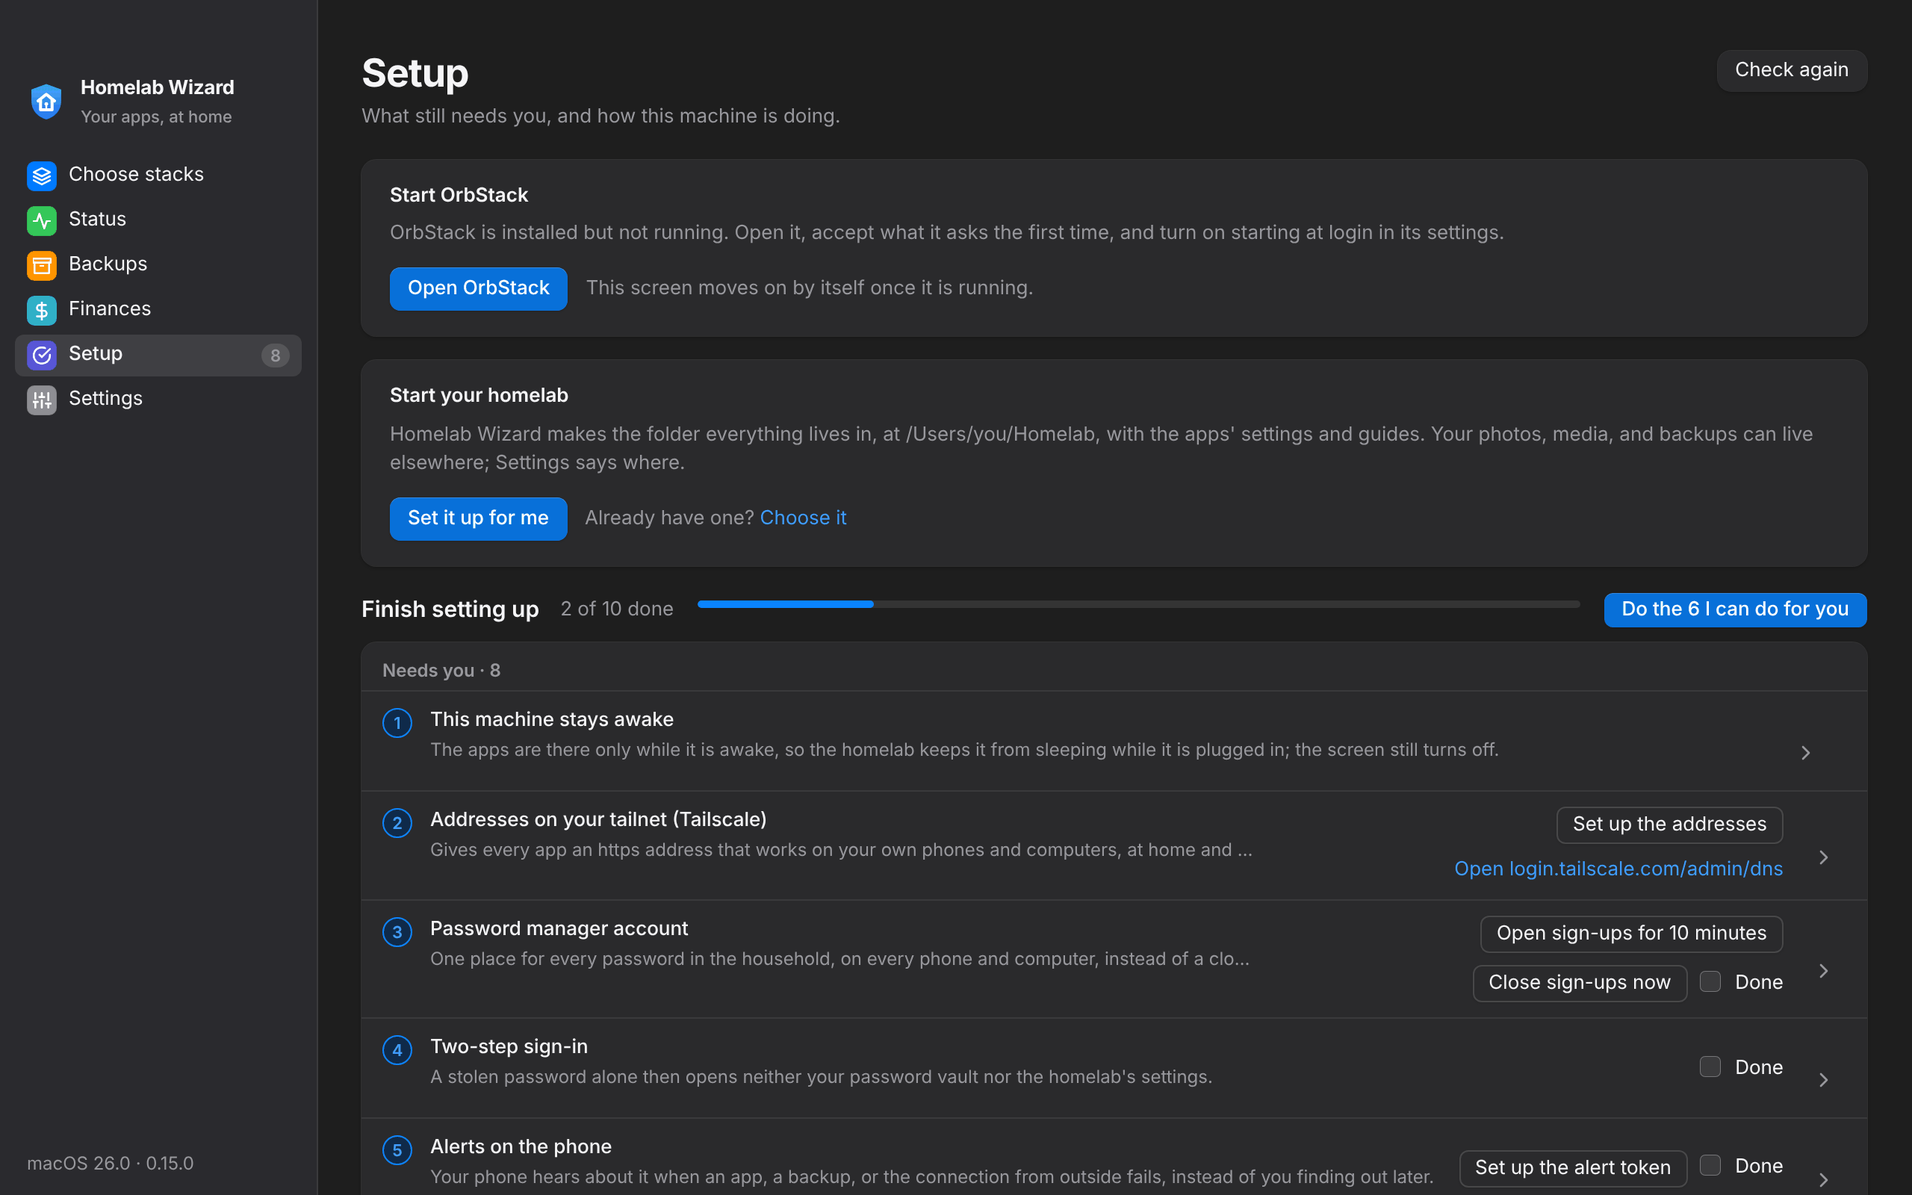
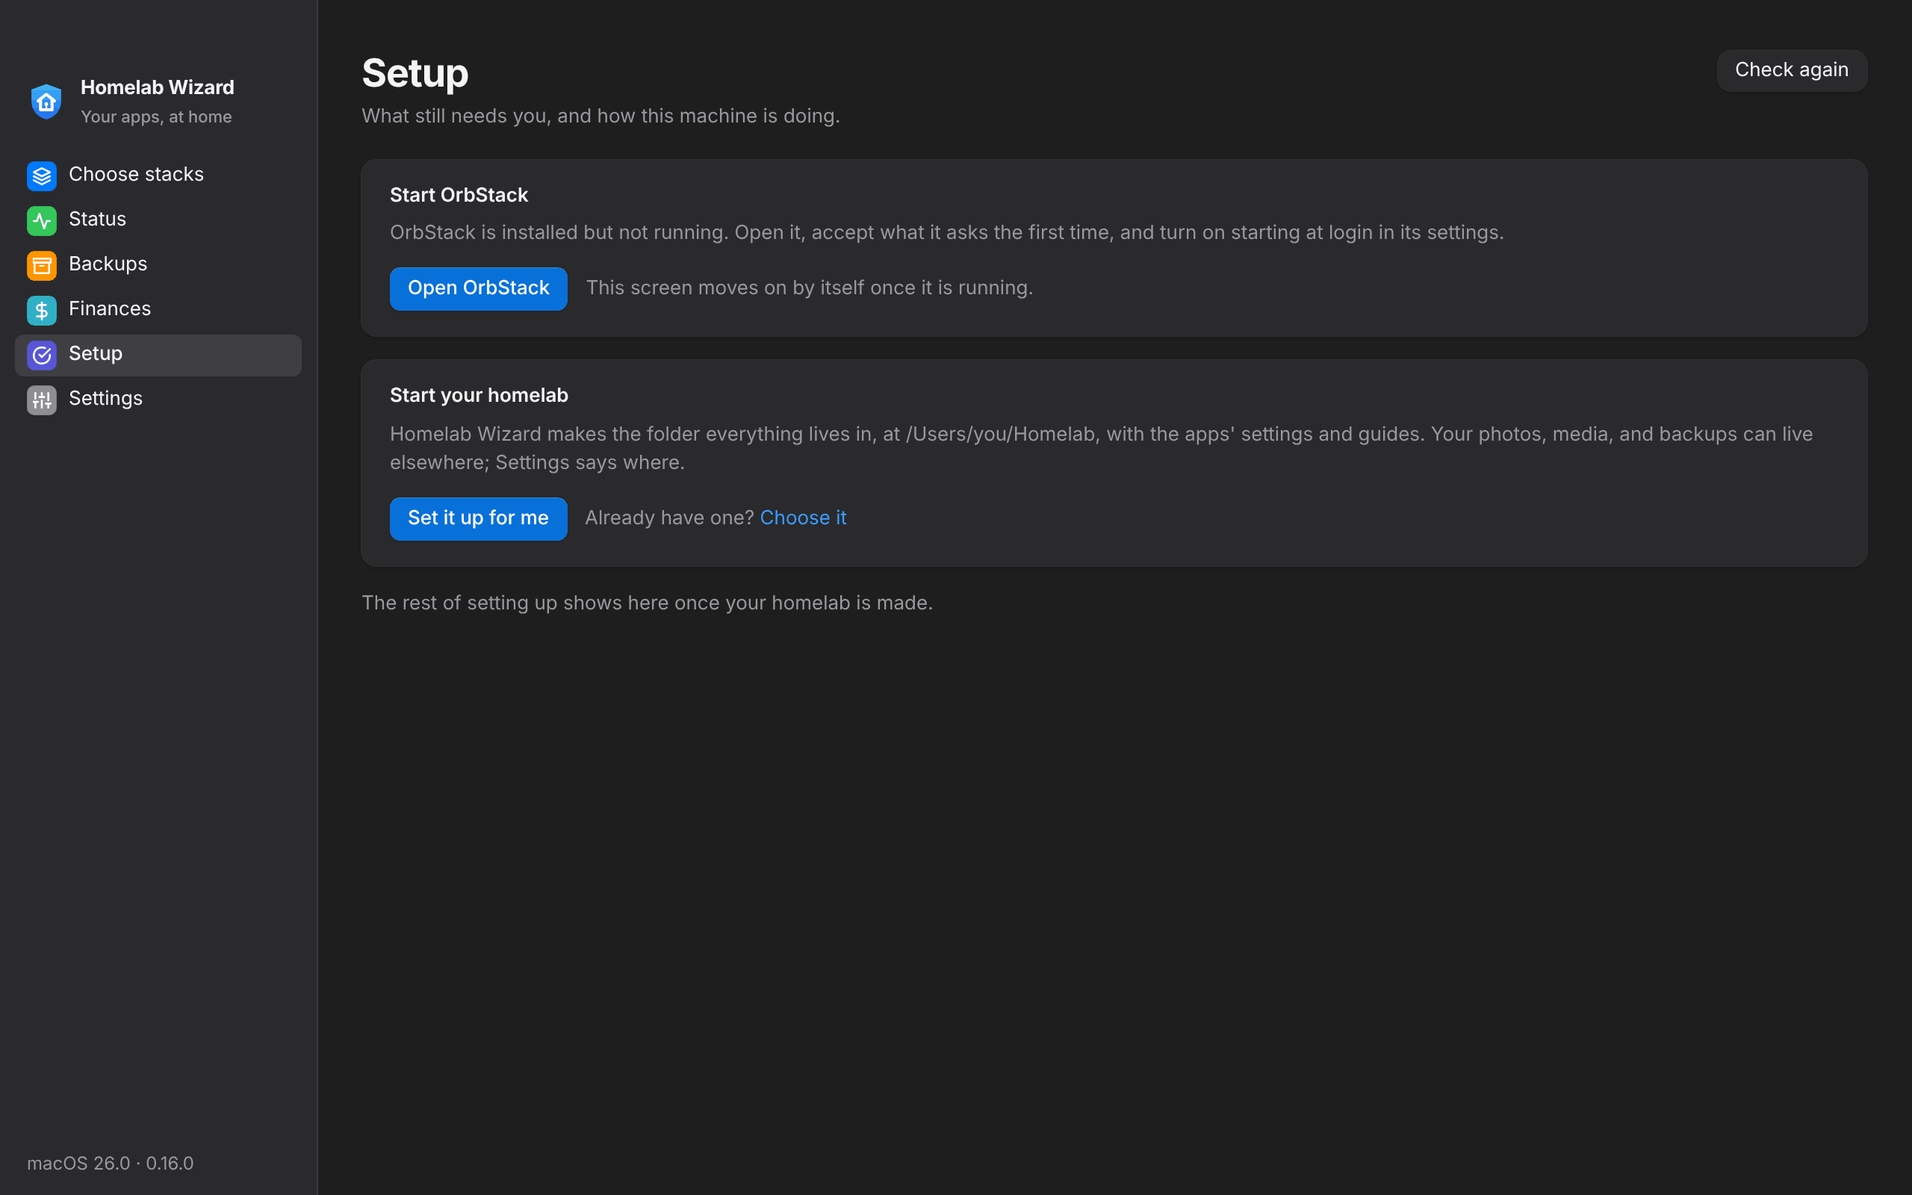
Audit, batch 1: the first run one step at a time, and no secret left in a report or a phone's log (#341)
Security and UX audit rounds (.claude/prompts/audit-loop.md), each proved by a check that failed first: with no homelab folder yet, Setup shows only what comes first; reports and phones' logs take out every secret .env.example names, by name or by placeholder (Homebox's pepper, Ghostfolio's salt were left in); a forged https header gives a copied phone token nothing more, now tested; two flaky Finances smoke cases wait for the screen before typing. docs/Security.md starts the November 2026 threat review.

Claude-Session: https://claude.ai/code/session_01K9KWL9jjBFMppvd8aiJjsp

diff --git a/web/src/screens/setup.ts b/web/src/screens/setup.ts
@@ -97,6 +97,7 @@ function drawHost() {
   renderAppearance(); // its notes depend on the system, known from here
   host = { i, atLogin, menu, upgrade: host?.upgrade || null, on: hostActions };
   renderHost();
+  if (lastSteps.length) renderSetup(lastSteps); // the checklist waits for the homelab's folder
   $('thisMacTitle').textContent = thisMachine;
   drawFoot({ system: i.osVersion || i.os, version: i.version });
   if (i.rootOK && !onPhone()) loadUpgrade(false); // the phone has no Settings › This Mac
@@ -227,13 +228,19 @@ let runningStep: string | null = null;
 
 function renderSetup(steps: setup.Step[]) {
   lastSteps = steps;
+  // Before the homelab's folder is made its steps are read from a .env that
+  // is not there, and none can run yet: the folder comes first.
+  const noHomelab = hostData.value ? !hostData.value.i.rootOK : false;
+  $('checkWait').hidden = !noHomelab;
+  $('checkHead').hidden = noHomelab;
+  $('checklist').hidden = noHomelab;
   const { done, total, left, wait } = progress(steps);
   const all = !left && !wait;
   $('checkTitle').textContent = all ? 'Everything is set up' : 'Finish setting up';
   $('checkCount').textContent = all ? '' : `${done} of ${total} done`;
   $('setupMeter').parentElement!.hidden = all;
   $('setupMeter').style.width = total ? `${Math.round((100 * done) / total)}%` : '0';
-  setupBadge(left);
+  setupBadge(noHomelab ? 0 : left);
   const ready = runnable(steps);
   $('runAll').hidden = runningAll || ready.length < 2;
   if (!runningAll) $('runAll').textContent = `Do the ${ready.length} I can do for you`;

diff --git a/web/dist/app.js b/web/dist/app.js
@@ -3165,6 +3165,7 @@
     renderAppearance();
     host = { i: i3, atLogin, menu, upgrade: host?.upgrade || null, on: hostActions };
     renderHost();
+    if (lastSteps.length) renderSetup(lastSteps);
     $2("thisMacTitle").textContent = thisMachine;
     drawFoot({ system: i3.osVersion || i3.os, version: i3.version });
     if (i3.rootOK && !onPhone()) loadUpgrade(false);
@@ -3346,13 +3347,17 @@
   var runningStep = null;
   function renderSetup(steps) {
     lastSteps = steps;
+    const noHomelab = hostData.value ? !hostData.value.i.rootOK : false;
+    $2("checkWait").hidden = !noHomelab;
+    $2("checkHead").hidden = noHomelab;
+    $2("checklist").hidden = noHomelab;
     const { done, total, left, wait } = progress(steps);
     const all = !left && !wait;
     $2("checkTitle").textContent = all ? "Everything is set up" : "Finish setting up";
     $2("checkCount").textContent = all ? "" : `${done} of ${total} done`;
     $2("setupMeter").parentElement.hidden = all;
     $2("setupMeter").style.width = total ? `${Math.round(100 * done / total)}%` : "0";
-    setupBadge(left);
+    setupBadge(noHomelab ? 0 : left);
     const ready2 = runnable(steps);
     $2("runAll").hidden = runningAll || ready2.length < 2;
     if (!runningAll) $2("runAll").textContent = `Do the ${ready2.length} I can do for you`;

diff --git a/web/dist/index.html b/web/dist/index.html
@@ -140,7 +140,8 @@
     <div id="setupApps" aria-live="polite"></div>
     <details id="setupDetails" class="jobdetails" open><summary>Show details</summary><pre id="setupLog" role="log" hidden></pre></details>
     <p class="jobclear"><button id="setupClear" class="btn" hidden title="Takes the finished job's bar, apps, and log off this screen">Clear</button></p>
-    <div class="row finishhead"><h2 id="checkTitle">Finish setting up</h2><span id="checkCount" class="muted"></span>
+    <p id="checkWait" class="muted" hidden>The rest of setting up shows here once your homelab is made.</p>
+    <div id="checkHead" class="row finishhead"><h2 id="checkTitle">Finish setting up</h2><span id="checkCount" class="muted"></span>
       <div class="meter"><div id="setupMeter" style="width:0"></div></div>
       <button id="runAll" class="primary small" hidden title="Runs each step that is ready, one after another, and stops at the first that needs you">Do the steps I can</button></div>
     <ol id="checklist" class="checklist"><li class="muted">Checking…</li></ol>

diff --git a/internal/companion/companion_test.go b/internal/companion/companion_test.go
@@ -530,3 +530,68 @@ func TestALargeSaveFromAPhone(t *testing.T) {
 		t.Errorf("past MaxCall: %d %v", status, out)
 	}
 }
+
+// X-Forwarded-Proto can be sent by anyone, so it must never be what keeps
+// a copied token from changing things or reading Finances. A phone paired
+// over plain HTTP from the home network has a token someone on the Wi-Fi
+// could copy: with the header forged, that token still makes no change and
+// gets no Finances, because the phone itself was made look-only, without
+// Finances, when it paired.
+func TestAForgedHTTPSHeaderGivesACopiedTokenNothingMore(t *testing.T) {
+	store := NewStore(filepath.Join(t.TempDir(), "phones.json"))
+	ok := func(context.Context, []json.RawMessage) (any, []string, error) { return "done", nil, nil }
+	s := &Server{Store: store, Methods: map[string]Method{
+		"AppAction":    {Change: true, Call: ok},
+		"Finances":     {Finances: FinancesView, Call: ok},
+		"SaveFinances": {Finances: FinancesEdit, Call: ok},
+		"Status":       {Call: ok},
+	}}
+	h := s.Handler()
+	do := func(path, body, token string, forged bool) int {
+		t.Helper()
+		r := httptest.NewRequest(http.MethodPost, path, strings.NewReader(body))
+		r.RemoteAddr = "192.168.1.20:52000" // the home Wi-Fi, plain HTTP
+		if token != "" {
+			r.Header.Set("Authorization", "Bearer "+token)
+		}
+		if forged {
+			r.Header.Set("X-Forwarded-Proto", "https")
+		}
+		w := httptest.NewRecorder()
+		h.ServeHTTP(w, r)
+		var out map[string]any
+		_ = json.NewDecoder(w.Body).Decode(&out)
+		if path == "/api/pair" && w.Code == 200 {
+			pairedToken = out["token"].(string)
+		}
+		return w.Code
+	}
+	// Paired over plain HTTP, though the owner asked for changes and Finances.
+	code, err := store.NewPairing("Anna's iPhone", true, FinancesEdit)
+	if err != nil {
+		t.Fatal(err)
+	}
+	if status := do("/api/pair", `{"code":"`+code+`"}`, "", false); status != 200 {
+		t.Fatalf("pair: %d", status)
+	}
+	copied := pairedToken
+	if status := do("/api/call/Status", "[]", copied, true); status != 200 {
+		t.Fatalf("it may still look: %d", status)
+	}
+	for _, m := range []string{"AppAction", "Finances", "SaveFinances"} {
+		if status := do("/api/call/"+m, "[]", copied, true); status != http.StatusForbidden {
+			t.Errorf("%s with a copied token and a forged header: %d, want 403", m, status)
+		}
+	}
+	// Nor can it be given them later.
+	id := store.Phones()[0].ID
+	if _, err := store.SetCanChange(id, true); !errors.Is(err, ErrUnencrypted) {
+		t.Errorf("changes given to a phone paired over plain HTTP: %v", err)
+	}
+	if _, err := store.SetFinances(id, FinancesView); !errors.Is(err, ErrNoFinances) {
+		t.Errorf("Finances given to a phone paired over plain HTTP: %v", err)
+	}
+}
+
+// pairedToken is the token the last successful pairing in a test gave.
+var pairedToken string

diff --git a/cmd/homelab/homepage_test.go b/cmd/homelab/homepage_test.go
@@ -1,12 +1,16 @@
 package main
 
 import (
+	"io"
 	"os"
 	"path/filepath"
+	"regexp"
 	"strings"
 	"testing"
 
 	"github.com/Snooper42/homelab-wizard/internal/docker"
+	"github.com/Snooper42/homelab-wizard/internal/settings"
+	"github.com/Snooper42/homelab-wizard/internal/ui"
 )
 
 func TestHomepageListsRunningApps(t *testing.T) {
@@ -162,5 +166,45 @@ func TestReportHasTheNewestCrash(t *testing.T) {
 	}
 	if strings.Contains(out, "log: scripts/logs/crash-") {
 		t.Error("the crash log is listed again among the jobs' logs")
+	}
+}
+
+// Every secret .env.example names, by its key or by its placeholder
+// (HOMEBOX_API_KEY_PEPPER=__REPLACE_ME__), is taken out of a report and
+// of a log sent to a phone, whatever shape its value has: a generated
+// value is plain text that no token pattern would catch.
+func TestEverySecretIsRedacted(t *testing.T) {
+	example, err := os.ReadFile(filepath.Join(repoDir(), ".env.example"))
+	if err != nil {
+		t.Fatal(err)
+	}
+	keyRe := regexp.MustCompile(`^([A-Za-z_][A-Za-z0-9_]*)=(.*)$`)
+	secrets := map[string]string{}
+	var env []string
+	for _, line := range strings.Split(string(example), "\n") {
+		m := keyRe.FindStringSubmatch(strings.TrimSpace(line))
+		if m == nil || !settings.IsSecret(m[1], m[2]) {
+			continue
+		}
+		v := "leakcheck" + strings.ToLower(strings.ReplaceAll(m[1], "_", "")) + "qz"
+		secrets[m[1]] = v
+		env = append(env, m[1]+"="+v)
+	}
+	if len(secrets) < 20 {
+		t.Fatalf("read only %d secrets from .env.example", len(secrets))
+	}
+	root, _ := repoCopy(t, env...)
+	h := &homelab{root: root, envFile: filepath.Join(root, ".env"), ui: &ui.UI{Out: io.Discard}, catalog: catalogOf(t)}
+	var all []string
+	for _, v := range secrets {
+		all = append(all, "value: "+v)
+	}
+	text := strings.Join(all, "\n")
+	for name, out := range map[string]string{"a report": redact(text, h.secretValues()), "a phone's log": h.phoneLog(text)} {
+		for k, v := range secrets {
+			if strings.Contains(out, v) {
+				t.Errorf("%s leaked into %s", k, name)
+			}
+		}
 	}
 }

diff --git a/internal/settings/settings.go b/internal/settings/settings.go
@@ -36,6 +36,23 @@ func IsSecret(key, exampleValue string) bool {
 	return secretRe.MatchString(key) || envfile.Placeholder.MatchString(exampleValue)
 }
 
+// SecretKeys are the keys .env.example marks secret, by their name or by a
+// placeholder value (HOMEBOX_API_KEY_PEPPER=__REPLACE_ME__), as List
+// marks them; none when it cannot be read.
+func SecretKeys(root string) map[string]bool {
+	out := map[string]bool{}
+	data, err := os.ReadFile(filepath.Join(root, ".env.example"))
+	if err != nil {
+		return out
+	}
+	for _, line := range strings.Split(string(data), "\n") {
+		if m := keyRe.FindStringSubmatch(strings.TrimSpace(line)); m != nil && IsSecret(m[1], m[2]) {
+			out[m[1]] = true
+		}
+	}
+	return out
+}
+
 // List returns every key in .env.example, in its order, with the values
 // from .env (secrets only say whether they are set).
 func List(root string) ([]Setting, error) {

diff --git a/internal/settings/settings_test.go b/internal/settings/settings_test.go
@@ -53,3 +53,22 @@ func TestListAndSave(t *testing.T) {
 		t.Fatal("multi-line value accepted")
 	}
 }
+
+// SecretKeys marks a key secret as List does: by its name, or by the
+// placeholder .env.example gives it, as a generated pepper or salt has.
+func TestSecretKeys(t *testing.T) {
+	keys := SecretKeys(filepath.Join("..", ".."))
+	for _, k := range []string{"HOMEBOX_API_KEY_PEPPER", "GHOSTFOLIO_ACCESS_TOKEN_SALT", "JELLYFIN_API_KEY", "NAVIDROME_ADMIN_PASSWORD", "CLOUDFLARE_API_TOKEN"} {
+		if !keys[k] {
+			t.Errorf("%s is not marked secret", k)
+		}
+	}
+	for _, k := range []string{"HOMELAB_DOMAIN", "NAVIDROME_ADMIN_USER", "VAULTWARDEN_URL"} {
+		if keys[k] {
+			t.Errorf("%s is marked secret", k)
+		}
+	}
+	if got := SecretKeys(t.TempDir()); len(got) != 0 {
+		t.Errorf("with no .env.example: %v", got)
+	}
+}

diff --git a/cmd/homelab/report.go b/cmd/homelab/report.go
@@ -199,8 +199,11 @@ func (h *homelab) report(ctx context.Context, args []string) error {
 // secretValues are the values in .env that must never leave this machine.
 func (h *homelab) secretValues() map[string]string {
 	out := map[string]string{}
+	// By its name, or as .env.example marks it: a generated pepper or salt
+	// is secret though its name does not say so.
+	example := settings.SecretKeys(h.root)
 	for k, v := range h.envMap() {
-		if settings.IsSecret(k, "") && len(v) >= 6 {
+		if (settings.IsSecret(k, "") || example[k]) && len(v) >= 6 {
 			out[k] = v
 		}
 	}

diff --git a/docs/Security.md b/docs/Security.md
@@ -156,6 +156,18 @@ Every way into the homelab's own code: what can reach it, what guards it, and wh
 
 Fine as they are: the engine's socket (yours only, read-only); another website pointing its name at this computer (DNS rebinding: without a code or a token it gets only the page); guessing a pairing code (31⁸ codes, 10 tries per 10 minutes, and only while one is waiting); the companion answering on a café's Wi-Fi (the page and pairing only); Explain with `OLLAMA_HOST` set to another computer (the log then leaves this one, with secrets taken out); the menu bar item's lock port (another program could keep it from starting, nothing more).
 
+## Threat review (November 2026)
+
+What was added since the [0.6.0 review](#threat-review-of-the-app-october-2026), read against the code by the security audit loop (`.claude/prompts/audit-loop.md`), one way in per round. Each finding is fixed in its own commit, with a test that fails without the fix, and ticked here when merged.
+
+### Findings
+
+| # | Risk | Finding | Fix |
+|---|---|---|---|
+| N1 | Low | **The phone companion trusts `X-Forwarded-Proto: https` from anyone** when it decides whether a request was encrypted. Checked against the M5 attacker (someone on the home Wi-Fi who copied a token): a phone paired over plain HTTP is made look-only and without Finances when it pairs (`MarkUnencrypted`), and `SetCanChange` and `SetFinances` refuse it later, so a copied token with a forged header gets nothing it did not have. A phone paired over an encrypted link keeps its token per address, so that token never crosses plain HTTP. The per-request check is a second layer, not the guard | **Fine as it is, now tested:** `TestAForgedHTTPSHeaderGivesACopiedTokenNothingMore`, which fails if pairing stops marking such a phone (checked by removing that step) |
+| N3 | Low | **Two generated secrets were not taken out of reports and phones' logs**: `HOMEBOX_API_KEY_PEPPER` and `GHOSTFOLIO_ACCESS_TOKEN_SALT` are secret by their placeholder in `.env.example`, not by their name, and the redaction behind a diagnostics report and a log sent to a phone (M3) went by the name alone; their values are plain text that no token pattern catches. It needs an app's log or the report to print one | **Fixed:** what is secret is read as Settings reads it, by the name or by `.env.example` (`settings.SecretKeys`); `TestEverySecretIsRedacted` puts a value in every secret `.env.example` names and fails if any is left in a report or a phone's log (it named both before the fix) |
+| N2 | Low | **Any paired device can make a diagnostics report** (`Report`, up to 3 minutes of work each), a look-only phone or a wall screen included, and several at once | **Fine as it is:** the report has every secret taken out (as a phone's logs, M3), it is how a household member sends one to their helper, and it changes nothing; a paired device is the household's |
+
 ## Incident response
 
 1. Look: `cscli alerts list`, the proxy logs, the app's logs.

diff --git a/.claude/prompts/audit-loop.md b/.claude/prompts/audit-loop.md
@@ -13,6 +13,11 @@ With no interval, /loop paces itself. Each round re-reads this file, so to
 steer a team, edit its section, commit and push it to main, and the next
 round follows.
 
+Start them from a session of your own: a session that another session
+started cannot run /loop. While no session runs a team, the cleanup
+session takes that team's rounds in turn, between its own checks, on its
+own branch and PR.
+
 ---
 
 ## Your job, either team
@@ -164,7 +169,15 @@ behaviour, and the screenshots retaken where they changed.
 
 ### UX done
 
-(none yet)
+- **Round 1 (item 1, first run), the first finding:** with no homelab
+  folder yet, Setup listed the whole checklist (steps read from a .env that
+  is not there), offered "Do the 6 I can do for you", and counted 8 in the
+  sidebar, while none of it could run. Now the checklist and the count wait
+  for the folder, and one line says the rest follows; making the folder
+  reloads the steps. Smoke: "First run: no checklist before the homelab is
+  made" (failed before: checklist, checkTitle, runAll shown). Still to do
+  in item 1: each system's first run (Windows, Linux, SteamOS), a failed
+  step's words, and from launch to the first app without the docs.
 
 ---
 
@@ -235,4 +248,23 @@ needs something already broken or someone already on the machine.
 
 ### Security done
 
-(none yet)
+- **Round 1 (item 1, the phone companion), in part:** every method in
+  `phoneMethods` read against each permission. Changes all need `Change`
+  and check their arguments against a fixed list; `AppIcon`'s ID is
+  checked before any path is made. Found: `Encrypted` trusts a forged
+  `X-Forwarded-Proto` (N1), harmless because a phone paired over plain
+  HTTP is look-only and without Finances from pairing on; now held by
+  `TestAForgedHTTPSHeaderGivesACopiedTokenNothingMore` (fails when that
+  step is removed). `Report` open to every paired device (N2), fine as
+  it is. Still to do in item 1: `StatusBoard`'s stream and `/api/events`
+  by permission, `Logs` for a kiosk screen, and what the 4 MB limit lets
+  a paired device make the computer do.
+- **Round 2 (items 3, 5, and 11):** the welcome page is html/template (a
+  crafted name is escaped, no javascript: link); rebuild's copyTree reads
+  within the restored folder (os.OpenRoot) and skips links. Found N3: the
+  redaction for reports and phones' logs (M3) went by a key's name, so
+  HOMEBOX_API_KEY_PEPPER and GHOSTFOLIO_ACCESS_TOKEN_SALT, secret only by
+  their placeholder, were left in. Fixed with settings.SecretKeys;
+  TestEverySecretIsRedacted covers every secret .env.example names (it
+  named both before). Items 3 and 5 still to finish: the welcome page's
+  file and folder modes, and Duplicati's own restore of the archives.

diff --git a/CHANGELOG.md b/CHANGELOG.md
@@ -49,13 +49,12 @@ Notes are grouped as **New**, **Improved**, and **Fixed**, one line each, in pla
 
 ### Fixed
 
+- **Reports and phones' logs keep every secret out:** two passwords the homelab makes for Homebox and Ghostfolio could show in a diagnostics report or an app's log on a phone, since their names don't say they are secret; they are taken out now, like the rest.
+- **The first run, one thing at a time:** before your homelab is made, Setup shows only what comes first (starting Docker, making the homelab) and says the rest follows; it no longer lists steps, offers to do them, or counts them in the sidebar while none of them could run yet.
 - **Finances, something else or collectibles:** an account named "Ring" (jewelry) no longer shows a doorbell company's logo; only banks, cards, investments, homes, and cars take a logo from their name.
 - **Finances, a box ticked with the mouse:** "The amount changes each time" on a payment now stays ticked when clicked or tapped; it unticked itself at once.
 - **Finances, logos by name:** a payment or account with no logo picked shows the brand in its name ("Claude Pro" shows Claude's, "AMC A-List" AMC's), and the payment form fills the logo in as you type the name. AMC Theatres joins the logos.
 - **Finances, a yearly payment's next day:** one that just came (Claude Pro, yearly on Oct 23) shows its day next year and how far off it is, not "Not in the next year".
-
-### Fixed
-
 - **On Linux, Ollama is no longer open to the whole home network:** Setup, doctor, and Open WebUI's note now have it listen on Docker's own address (`172.17.0.1`), which the apps reach and other devices do not, instead of `0.0.0.0`; Explain this and the checks find it there. Ollama has no password, so before, anyone on the Wi-Fi could use it. On SteamOS it stays as it was, as its note says.
 - **The phone after pairing:** Status no longer shows a red "not on the phone: use Homelab Wizard on the computer". The phone asked the computer for Setup's steps and other things only the desktop app has; it asks for none of them now. A phone paired with a computer on 0.14.9 or earlier gets Status and its cards there too, rather than "Status is not available".
 
